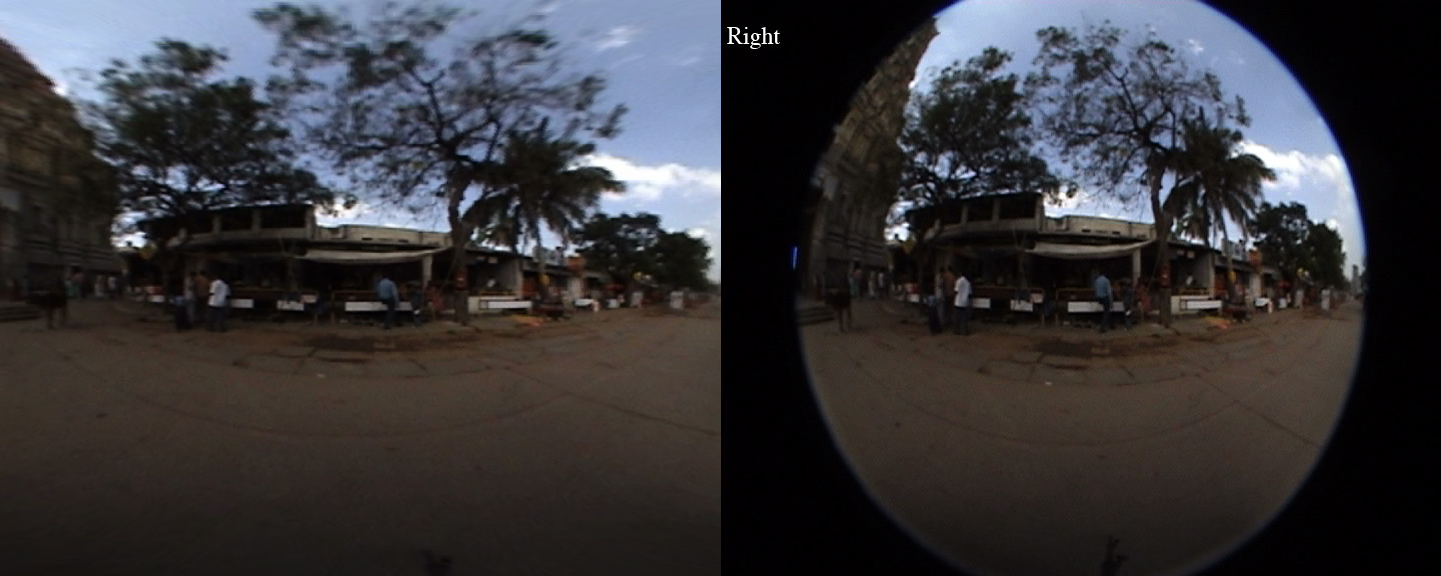
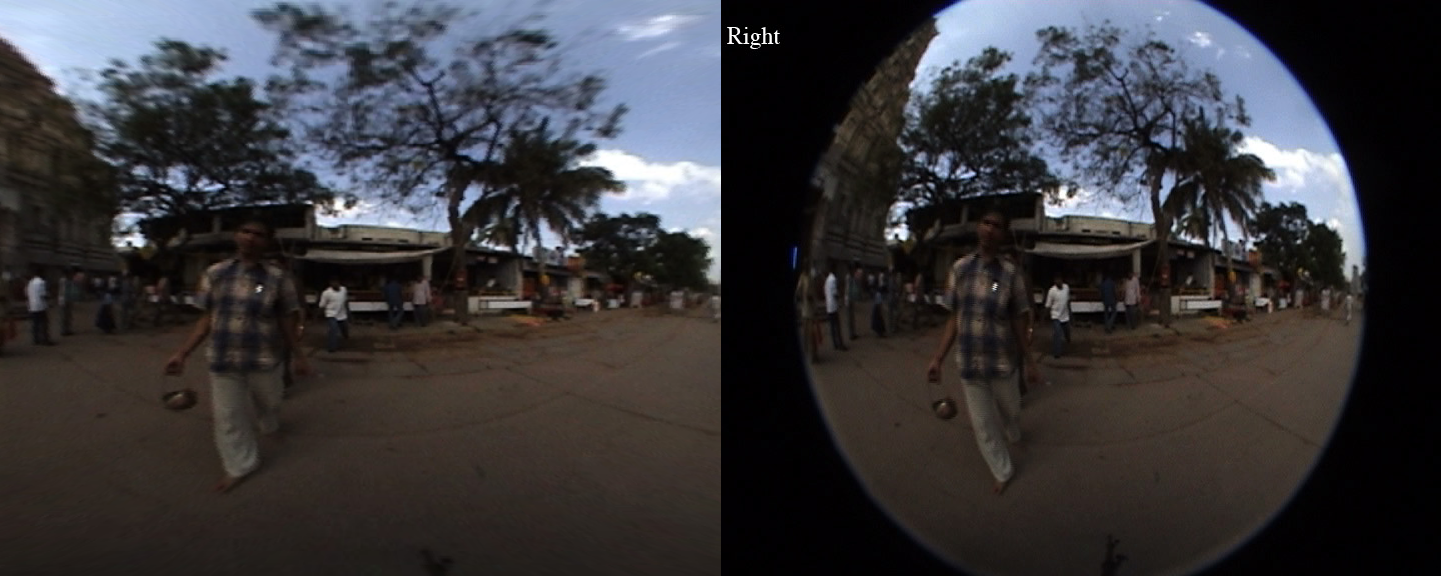
need to clean it up, construct gradients, comment, close to done

diff --git a/fisheye/defish.py b/fisheye/defish.py
@@ -1,5 +1,6 @@
 from SimpleCV import Display, Image, Color
 import cv2
+import cv
 import numpy as np
 import time
 
@@ -60,7 +61,7 @@ def postCrop(img,threshold=10):
     return img.crop(img.width*0.2,img.height*0.1,img.width*.6,img.height*0.8)
 
 
-def findHomography(img,template,quality=400.00,minDist=0.15,minMatch=0.5):
+def findHomography(img,template,quality=500.00,minDist=0.2,minMatch=0.4):
     skp,sd = img._getRawKeypoints(quality)
     tkp,td = template._getRawKeypoints(quality)
     if( skp == None or tkp == None ):
@@ -89,32 +90,33 @@ def findHomography(img,template,quality=400.00,minDist=0.15,minMatch=0.5):
 
         rhs_pt = np.array(rhs)
         lhs_pt = np.array(lhs)
-
-        homography,mask = cv2.findHomography(lhs_pt,rhs_pt,cv2.RANSAC, ransacReprojThreshold=1.0 )
-        return (homography, mask)
+        xm = np.median(rhs_pt[:,1]-lhs_pt[:,1])
+        ym = np.median(rhs_pt[:,0]-lhs_pt[:,0])
+        homography,mask = cv2.findHomography(lhs_pt,rhs_pt,cv2.RANSAC, ransacReprojThreshold=1.1 )
+        return (homography,mask, (xm,ym))
     else:
         return None
     
 def doHomoMapping(img1,img2):
 
-    img1 = img1.embiggen(size=(img1.width*2,img1.height*2))
-    img2 = img2.embiggen(size=(img2.width*2,img2.height*2))
+    #img1 = img1.embiggen(size=(img1.width*2,img1.height*2))
+    #img2 = img2.embiggen(size=(img2.width*2,img2.height*2))
     w2,h2 = img2.size()
-    H, mask = findHomography(img1,img2)
-    aligned_img2 = img2.transformPerspective(H)
-    img2_array = np.array(img2.getMatrix())
-    aligned_array2 = cv2.warpPerspective(src = img2_array,
-                                         M = H,
-                                         dsize = (h2,w2),
-                                         flags = cv2.INTER_CUBIC)  
+    H, M, offset = findHomography(img1,img2)
+    return offset
+#    img2_array = np.array(img2.getMatrix())    
+#    aligned_array2 = cv2.warpPerspective(src = img2_array,
+#                                         M = H,
+#                                         dsize = (h2,w2),
+#                                         flags = cv2.INTER_CUBIC)  
 
-    print H
-    aligned_img2 = Image(aligned_array2)
-    overlay_img = aligned_img2.toBGR().blit(img1,alpha=0.2)  #overlay   
-    return overlay_img
+#    print H
+#    aligned_img2 = Image(aligned_array2)
+#    overlay_img = aligned_img2.toRGB().blit(img1,alpha=0.5)  #overlay   
+#    return overlay_img
 
 doPostCrop = True
-img = Image('fisheye1.jpg')
+img = Image('fisheye2.jpg')
 sections = spliceImg(img,not doPostCrop)
 temp = sections[0]
 # we may want to make a new map per image for better
@@ -140,12 +142,33 @@ for s,idx  in zip(sections,range(0,len(sections))):
     temp.show()
     time.sleep(1)
 
-hlist = []
+
+offsets = []
+finalWidth = defished[0].width
 for i in range(0,len(defished)-1):
-    derp = doHomoMapping(defished[i],defished[i+1])
-    derp.show()
-    derp.save('Match{0}.png'.format(i))
-    time.sleep(10)
+    offset = doHomoMapping(defished[i],defished[i+1])
+    dfw = defished[i+1].width
+    offsets.append(offset)
+    finalWidth += int(dfw-offset[0])
 
-
+print finalWidth
+final = Image((finalWidth,defished[0].height))
+final = final.blit(defished[0],pos=(0,0))
+xs = 0
+for i in range(0,len(defished)-1):
+    w = defished[i+1].width
+    h = defished[i+1].height
+    mask = Image((w,h))
+    mask.drawRectangle(0,0,offsets[i][0]/2,h,color=(64,64,64),width=-1)
+    mask.drawRectangle(offsets[i][0]/2,0,offsets[i][0]/2,h,color=(192,192,192),width=-1)
+    mask.drawRectangle(offsets[i][0],0,w-offsets[i][0],h,color=(255,255,255),width=-1)
+    mask = mask.applyLayers()
+    xs += int(w-offsets[i][0])
+    final = final.blit(defished[i+1],pos=(xs,0),alphaMask=mask)
+    final.show()
+    time.sleep(3)
+    
+final.show()
+final.save('final.png')
+time.sleep(10)
          
